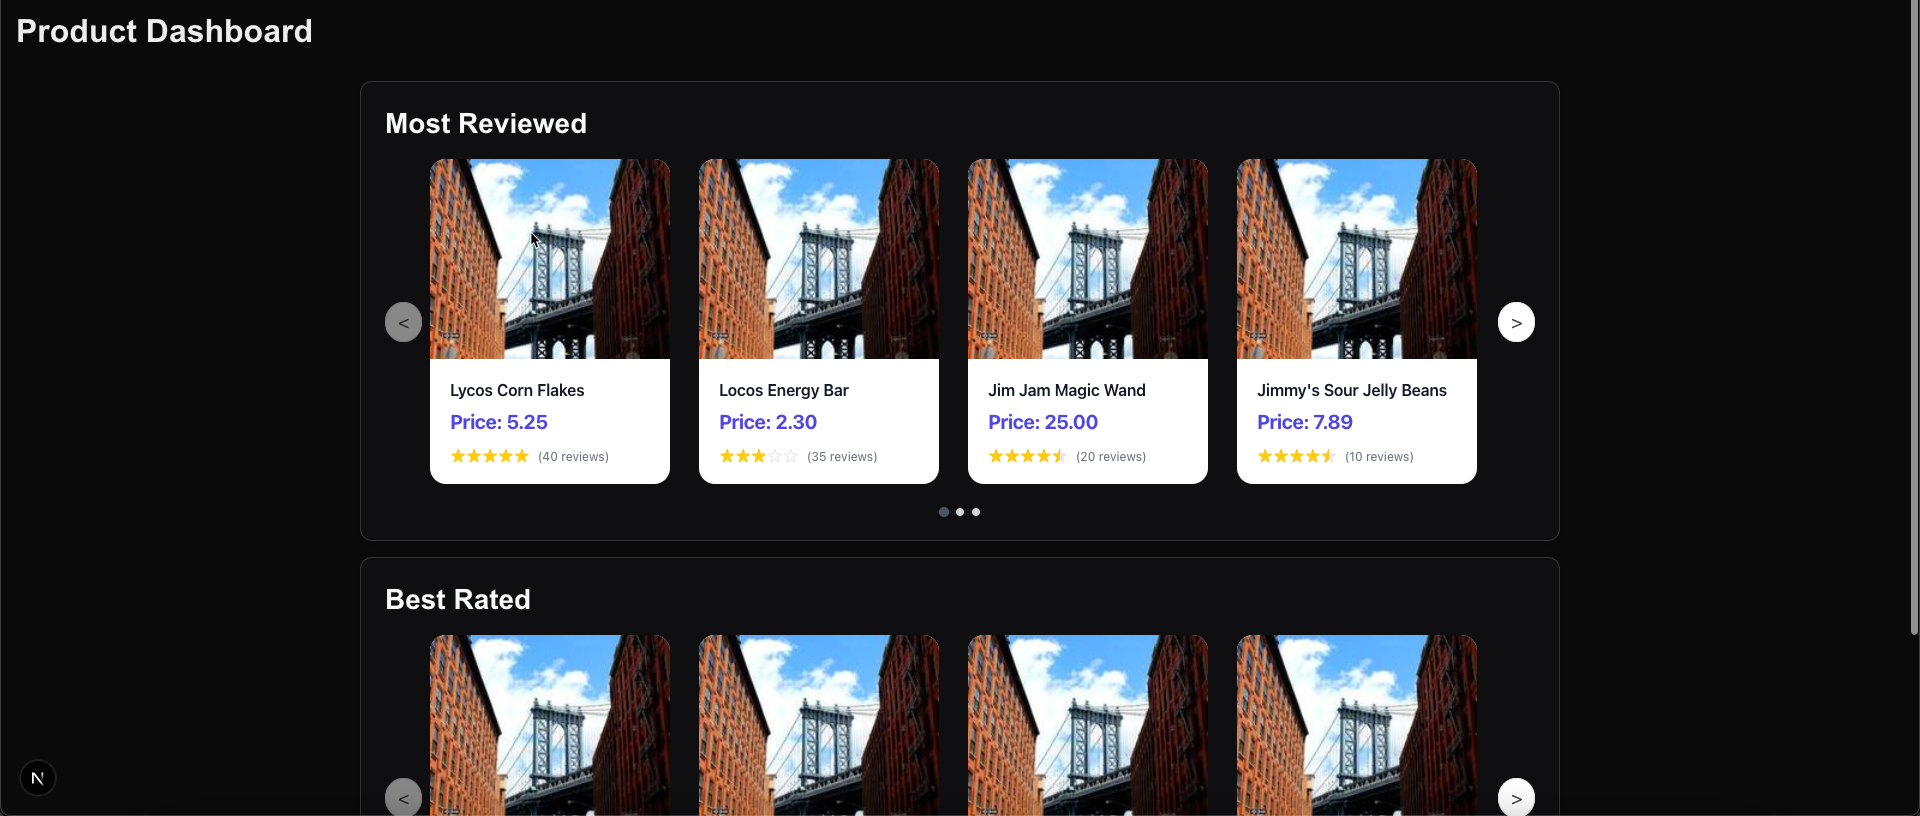
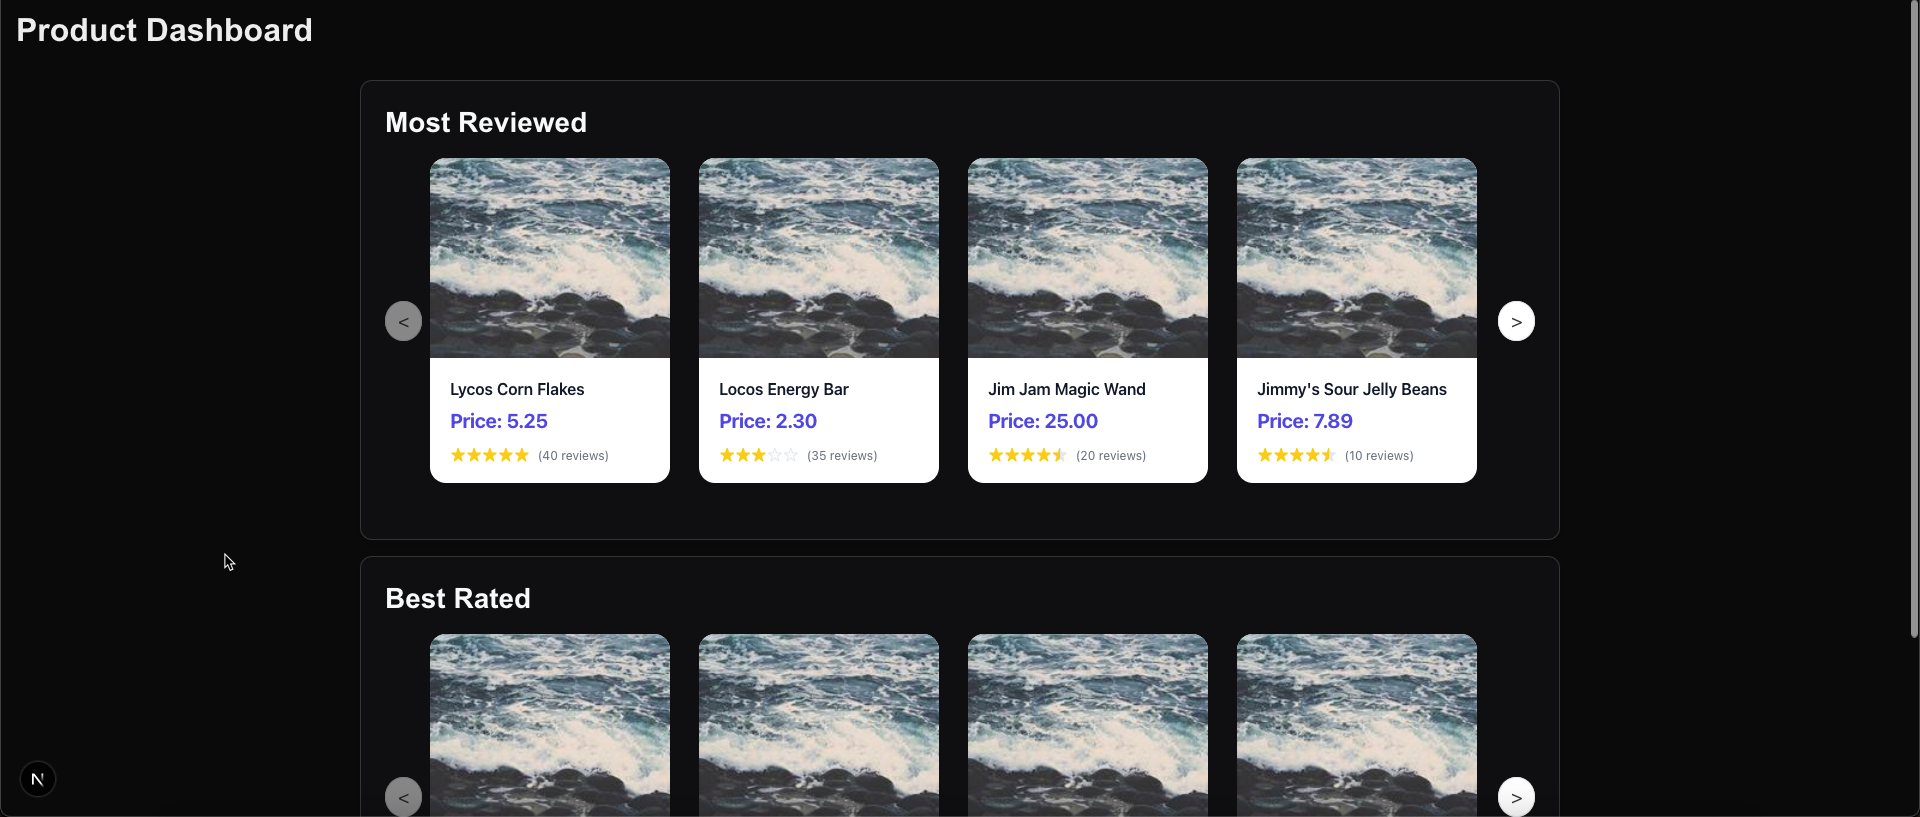
Update carousel styling

diff --git a/src/app/components/ProductCarousel/ProductCarousel.jsx b/src/app/components/ProductCarousel/ProductCarousel.jsx
@@ -1,5 +1,5 @@
 'use client';
-import React from 'react';
+import React, { useState } from 'react';
 import useGetAllProducts from '../../hooks/useGetAllProducts';
 import ProductCard from '../ProductCard/ProductCard';
 import LoadingSpinner from '@/app/components/LoadingSpinner/LoadingSpinner.jsx';
@@ -14,19 +14,29 @@ const ProductCarousel = ({ title, queryParams = {} }) => {
     error,
   } = useGetAllProducts(queryParams);
 
-  const [currentIndex, setCurrentIndex] = React.useState(0);
+  const [currentIndex, setCurrentIndex] = useState(0);
   const productsPerView = 4;
 
-  const nextSlide = () => {
+  const nextItem = () => {
     if (products && currentIndex < products.length - productsPerView) {
       setCurrentIndex(currentIndex + 1);
     }
   };
 
-  const prevSlide = () => {
+  const prevItem = () => {
     if (currentIndex > 0) {
       setCurrentIndex(currentIndex - 1);
     }
+  };
+
+  /**
+   * Function for calculating the translation value for css based on current index.
+   * This helps ensure a smooth transition when navigating the carousel.
+   * @returns {`translateX(-${number}%)`}
+   */
+  const getTranslateValue = () => {
+    const itemWidth = 100 / productsPerView;
+    return `translateX(-${currentIndex * itemWidth}%)`;
   };
 
   return (
@@ -40,17 +50,18 @@ const ProductCarousel = ({ title, queryParams = {} }) => {
         <>
           <div className={styles.carouselControls}>
             <button
-              onClick={prevSlide}
+              onClick={prevItem}
               className={styles.navButton}
               disabled={currentIndex === 0}
             >
               &lt;
             </button>
-
-            <div className={styles.carouselTrack}>
-              {products
-                .slice(currentIndex, currentIndex + productsPerView)
-                .map((product) => (
+            <div className={styles.carouselWindow}>
+              <div
+                className={styles.carouselTrack}
+                style={{ transform: getTranslateValue() }}
+              >
+                {products.map((product) => (
                   <div key={product.id} className={styles.carouselItem}>
                     <ProductCard
                       id={product.id}
@@ -61,27 +72,15 @@ const ProductCarousel = ({ title, queryParams = {} }) => {
                     />
                   </div>
                 ))}
+              </div>
             </div>
-
             <button
-              onClick={nextSlide}
+              onClick={nextItem}
               className={styles.navButton}
               disabled={currentIndex >= products.length - productsPerView}
             >
               &gt;
             </button>
-          </div>
-
-          <div className={styles.pagination}>
-            {Array.from({
-              length: Math.ceil(products.length / productsPerView),
-            }).map((_, i) => (
-              <button
-                key={i}
-                className={`${styles.paginationDot} ${currentIndex / productsPerView === i ? styles.activeDot : ''}`}
-                onClick={() => setCurrentIndex(i * productsPerView)}
-              />
-            ))}
           </div>
         </>
       )}

diff --git a/src/app/components/ProductCarousel/ProductCarousel.module.css b/src/app/components/ProductCarousel/ProductCarousel.module.css
@@ -25,11 +25,15 @@
     gap: 0.5rem;
 }
 
+.carouselWindow {
+    overflow: hidden;
+    width: 100%;
+}
+
 .carouselTrack {
     display: flex;
     gap: 1rem;
-    transition: transform 0.4s ease;
-    overflow: hidden;
+    transition: transform 0.5s ease-in-out;
     width: 100%;
 }
 
@@ -63,28 +67,6 @@
 .navButton:disabled {
     opacity: 0.5;
     cursor: not-allowed;
-}
-
-.pagination {
-    display: flex;
-    justify-content: center;
-    margin-top: 1.5rem;
-    gap: 0.5rem;
-}
-
-.paginationDot {
-    width: 8px;
-    height: 8px;
-    border-radius: 50%;
-    background-color: #d1d5db;
-    border: none;
-    cursor: pointer;
-    transition: all 0.2s ease;
-}
-
-.activeDot {
-    background-color: #4b5563;
-    transform: scale(1.2);
 }
 
 .error, .empty {

diff --git a/src/app/components/ProductCard/ProductCard.jsx b/src/app/components/ProductCard/ProductCard.jsx
@@ -1,3 +1,4 @@
+'use client';
 import React from 'react';
 import styles from './ProductCard.module.css';
 
@@ -16,7 +17,7 @@ const ProductCard = ({ id, name, price, reviewCount, rating }) => {
       <div className={styles.productImageContainer}>
         {/* eslint-disable-next-line @next/next/no-img-element */}
         <img
-          src={'https://picsum.photos/200'}
+          src="https://picsum.photos/200"
           alt={`Product: ${name}`}
           className={styles.productImage}
         />
